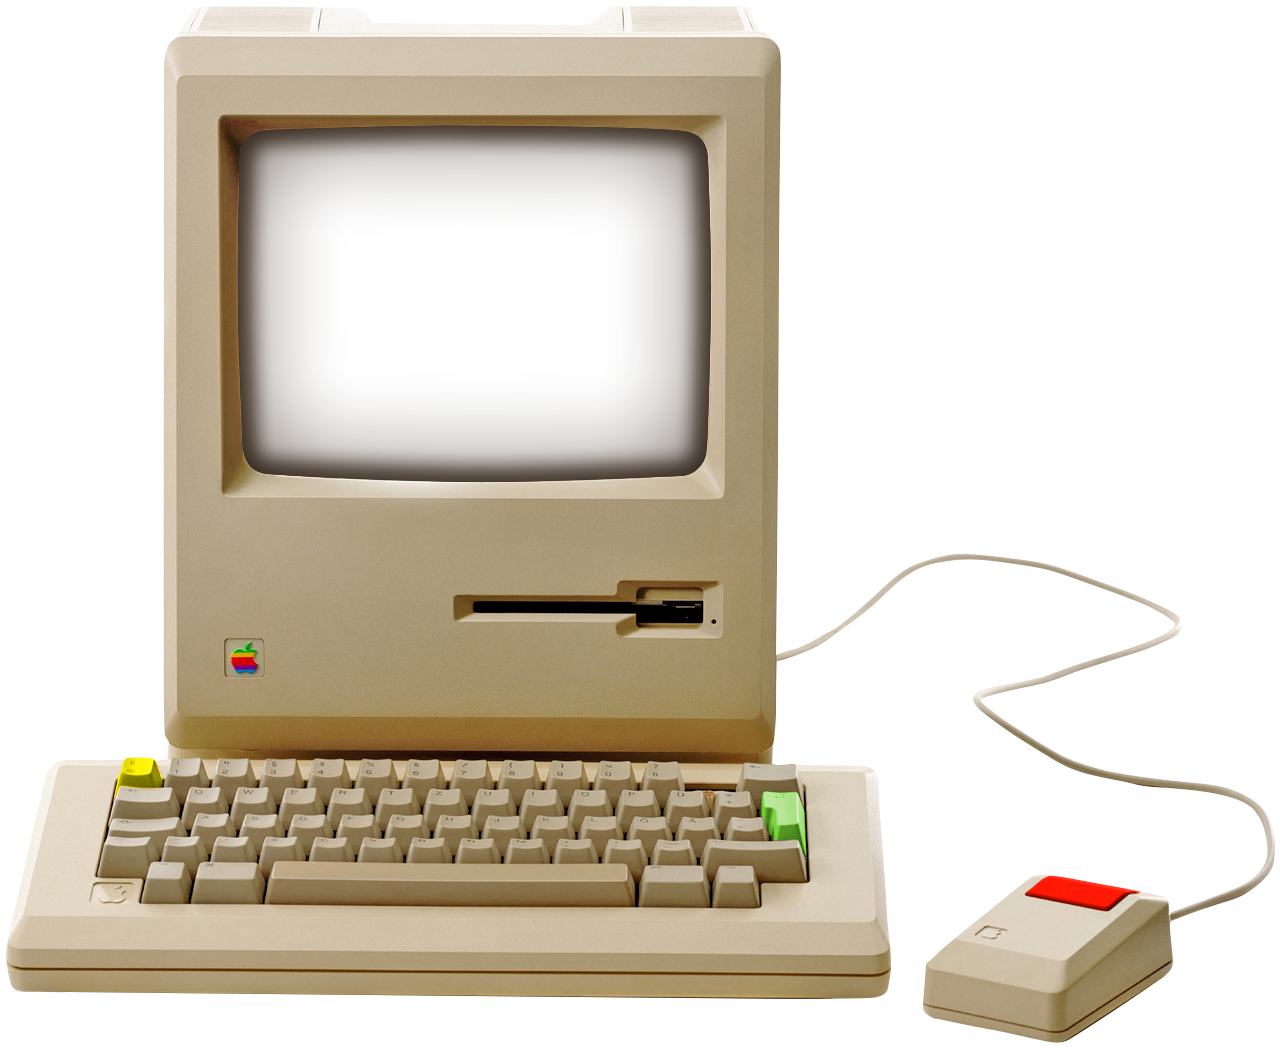
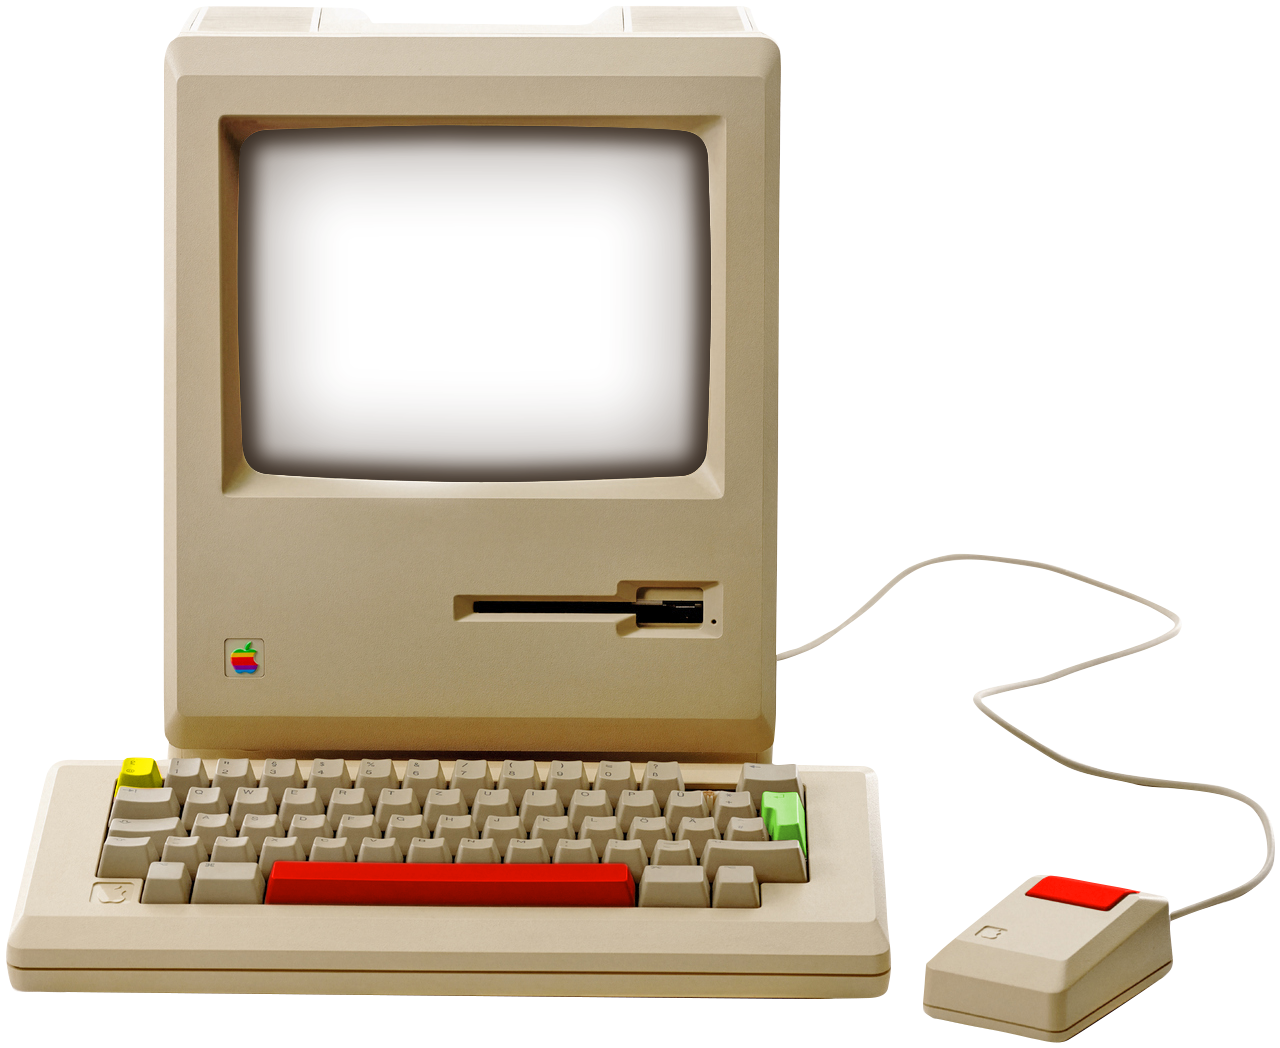
changed layout anf added spacebar button

Changed region(s): [[0.1875, 0.7939, 0.5, 0.8855]]

diff --git a/style.css b/style.css
@@ -25,7 +25,7 @@ html {
 }
 
 body {
-  min-height: 100vh;
+  height: 120vh;
   background: rgb(42, 17, 7);
   background: radial-gradient(
       circle,
@@ -37,29 +37,23 @@ body {
 }
 
 .container {
-  position: relative;
   display: flex;
-  justify-content: center;
+  flex-direction: column;
   align-items: center;
-  padding-top: 15vh;
-  transform-origin: center center;
   transition: 0.2s linear transform;
 }
 
 .main-header {
-  position: absolute;
-  transform: rotate(45deg);
-  top: 380px;
-  right: 200px;
+  margin-top: 40px;
   text-align: center;
   font-family: "Bree Serif";
-  font-size: 90px;
+  font-size: 60px;
   color: var(--font-color);
 }
 
 @media (max-width: 769px) {
   .container {
-    transform: scale(0.8);
+    transform: scale(0.5);
   }
 }
 
@@ -72,26 +66,37 @@ body {
 .inputs-color-container {
   position: absolute;
   font-size: 30px;
-  top: 370px;
+  top: 375px;
   left: 0px;
 }
 
 .screen-label::before {
   content: url("img/desktop-solid.svg");
+  filter: drop-shadow(0 0 3px var(--screen-color));
 }
 .font-label::before {
   content: url("img/font-solid.svg");
+  filter: drop-shadow(0 0 3px var(--font-color));
 }
 .screen-label::before,
 .font-label::before {
+  display: inline-block;
+  vertical-align: middle;
+  width: 30px;
+}
+.screen-label::after {
+  content: "Zmień kolor:";
   position: absolute;
-  width: 20px;
-  top: -20px;
-  margin-left: 11px;
+  top: -25px;
+  left: 0px;
+  font-size: 18px;
+  text-align: center;
+  font-family: var(--font-style);
 }
 
 .editor-container {
   position: relative;
+  margin-top: 140px;
   width: 450px;
   height: 306px;
 }
@@ -152,7 +157,18 @@ body {
   transform: rotate(10deg) skew(-48deg);
   height: 30px;
   padding: 8px 0px;
-  background-color: rgb(51, 202, 14);
+  background-color: transparent;
+  border: none;
+  cursor: pointer;
+}
+.clear-button-spacebar {
+  position: absolute;
+  top: 668px;
+  left: 39px;
+  width: 327px;
+  transform: rotate(1deg) skew(0);
+  height: 38px;
+  padding: 8px 0px;
   background-color: transparent;
   border: none;
   cursor: pointer;
@@ -166,7 +182,6 @@ body {
 
   outline: transparent;
   background-color: transparent;
-  /* background-color: gray; */
   border: transparent;
   margin: 10px 0px;
   padding: 35px;

diff --git a/script.js b/script.js
@@ -18,6 +18,7 @@ const entryInput = document.querySelector('.editor-textarea--js');
 const saveButton = document.querySelector('.save-button--js');
 const loadButton = document.querySelector('.load-button--js');
 const clearButton = document.querySelector('.clear-button--js');
+const clearButtonSpacebar = document.querySelector('.clear-button-spacebar--js');
 entryInput.classList.add('do-not-save--js');
 
 saveButton.addEventListener('click', () => {
@@ -35,7 +36,7 @@ loadButton.addEventListener('click', () => {
     if (result) {
         entryInput.value = result;
         entryInput.classList.remove('red-alert--js');
-        entryInput.value = `Załadowano dane które zapisałeś podczas ostatniej wizyty: „${result}”`;
+        entryInput.value = `Załadowano dane które zostały zapisane podczas ostatniej wizyty: „${result}”`;
     } else {
         entryInput.value = "Brak danych do załadowania. Wpisz nowe dane i naciśnij ENTER!";
         entryInput.classList.add('red-alert--js');
@@ -44,6 +45,11 @@ loadButton.addEventListener('click', () => {
 });
 
 clearButton.addEventListener('click', () => {
+    entryInput.value = 'Wyczyściłeś ekran. ZAŁADUJ ponownie dane lub DODAJ nowe.';
+    entryInput.classList.add('red-alert--js');
+});
+
+clearButtonSpacebar.addEventListener('click', () => {
     entryInput.value = 'Wyczyściłeś ekran. ZAŁADUJ ponownie dane lub DODAJ nowe.';
     entryInput.classList.add('red-alert--js');
 });

diff --git a/index.html b/index.html
@@ -23,8 +23,7 @@
     <main>
       <section class="container">
         <h1 class="main-header">
-          Bardzo Prosty <br />
-          Edytor 😁
+          Bardzo Prosty Edytor 😁
         </h1>
         <div class="editor-container">
           <svg class="screen-color-filter">
@@ -40,7 +39,7 @@ POBAW SIĘ ZE MNĄ...
 # „KLIK" — wpisuje DANE;
 # „Enter” — zapisuje DANE;
 # „ESC” — ładuje DANE;
-# MYSZA — czyść ekran;
+# MYSZA i SPACJA — czyść ekran;
 </textarea
             >
           </label>
@@ -67,6 +66,9 @@ POBAW SIĘ ZE MNĄ...
           <button class="button-style save-button save-button--js"></button>
           <button class="button-style load-button load-button--js"></button>
           <button class="button-style clear-button clear-button--js"></button>
+          <button
+            class="button-style clear-button-spacebar clear-button-spacebar--js"
+          ></button>
         </div>
       </section>
     </main>
